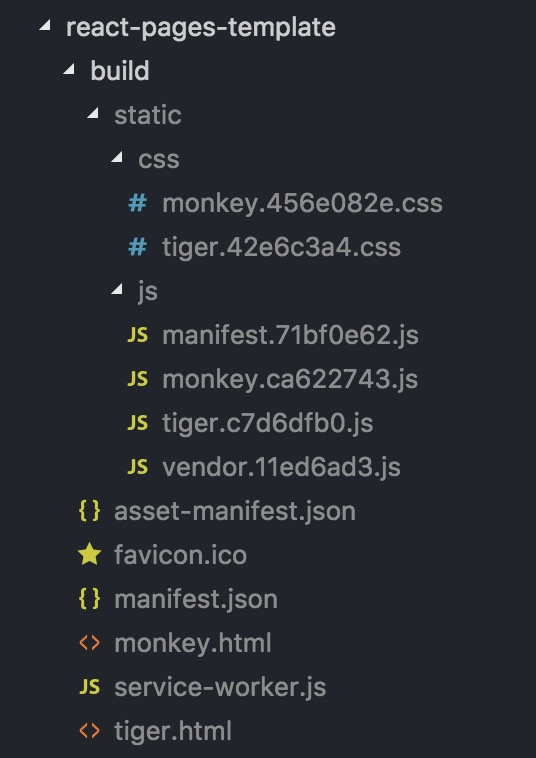
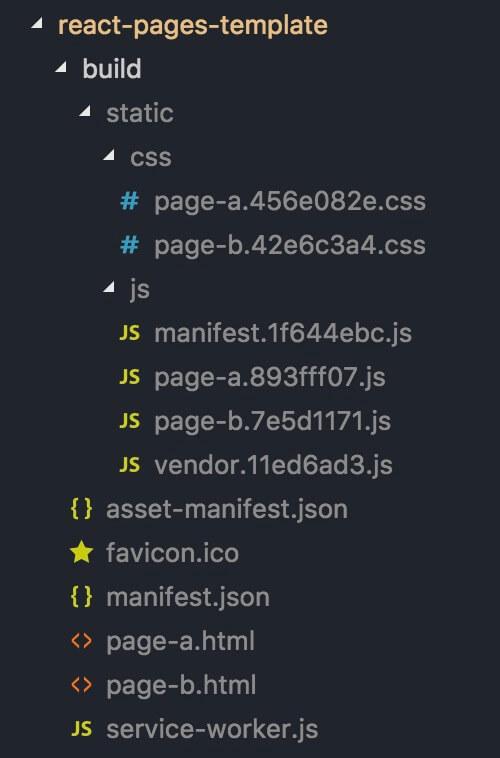
modify

diff --git a/config/utils.js b/config/utils.js
@@ -6,7 +6,7 @@
  * @Author: Eleven 
  * @Date: 2018-11-30 16:48:10 
  * @Last Modified by: Eleven
- * @Last Modified time: 2018-11-30 18:03:40
+ * @Last Modified time: 2018-12-02 19:59:28
  */
 
 const path = require('path')
@@ -45,7 +45,7 @@ const entries = getFilesName('src/views/**/*.js')
  *  1.允许文件夹层级嵌套;
  *  2.html的名称不允许重名;
  */
-const templates = getFilesName('public/template/**/*.html')
+const templates = getFilesName('src/views/**/*.html')
 
 /**
  * 获取webpack.config.dev.js的entry入口列表:
@@ -61,7 +61,7 @@ const getEntriesDev = () => {
       entry[fileName] = [
         require.resolve('./polyfills'),
         require.resolve('react-dev-utils/webpackHotDevClient'),
-        `${paths.appViews}/${fileName}.js`,
+        `${paths.appViews}/${fileName}/${fileName}.js`,
       ]
   })
   return entry
@@ -80,7 +80,7 @@ const getEntriesProd = () => {
   entries.forEach(fileName => {
       entry[fileName] = [
         require.resolve('./polyfills'),
-        `${paths.appViews}/${fileName}.js`,
+        `${paths.appViews}/${fileName}/${fileName}.js`,
       ]
   })
   return entry
@@ -97,7 +97,7 @@ const getHtmlWebpackPluginsDev = () => {
   templates.forEach((fileName) => {
     setting = {
       filename: `${fileName}.html`,
-      template: `${paths.appPublicTemplate}/${fileName}.html`,
+      template: `${paths.appViews}/${fileName}/${fileName}.html`,
       inject: false // js插入的位置，true/'head'/'body'/false
     }
 
@@ -126,7 +126,7 @@ const getHtmlWebpackPluginsProd = () => {
   templates.forEach((fileName) => {
     setting = {
       filename: `${fileName}.html`,
-      template: `${paths.appPublicTemplate}/${fileName}.html`,
+      template: `${paths.appViews}/${fileName}/${fileName}.html`,
       minify: {
         removeComments: true,
         collapseWhitespace: true,
@@ -144,6 +144,12 @@ const getHtmlWebpackPluginsProd = () => {
 
     // (仅)有入口的模版自动引入资源
     if (fileName in getEntriesProd()) {
+      /**
+       * 自动inject的chunks:
+       *  1.manifest: 是记录模块间依赖关系,当js(非vendor相关模块)有修改再次build时,vendorjs不会变动,但manifest.js和你对应页面的js(如:page-a.js)一样,一定会有变动;
+       *  2.vendor: 是我在入口处,手动定义了哪些模块需要被抽出作为基础缓存包,为了不造成阅读障碍,vendor留在webpack.config.prod.js中,而不是放在这里的getEntries...中,可以直观看到抽取了哪些依赖模块.
+       *   (与vue-cli略有差异,vue-cli是抽取所有的node_modules中的依赖模块作为基础缓存vendor)
+       */
       setting.chunks = ['manifest', 'vendor', fileName]
       setting.inject = true
       // setting.favicon = './src/assets/img/favicon.ico'

diff --git a/src/views/page-b/page-b.js b/src/views/page-b/page-b.js
@@ -1,9 +1,9 @@
 /* 
- * @Desc: monkey页入口
+ * @Desc: page-b页入口
  * @Author: Eleven 
- * @Date: 2018-11-30 18:43:43 
+ * @Date: 2018-11-30 18:44:02 
  * @Last Modified by: Eleven
- * @Last Modified time: 2018-11-30 20:29:25
+ * @Last Modified time: 2018-12-02 19:44:07
  */
 
 import 'babel-polyfill'
@@ -13,29 +13,13 @@ import ReactDOM from 'react-dom';
 import { HashRouter } from 'react-router-dom'
 import { Provider } from 'mobx-react'
 import { hot } from 'react-hot-loader'
-import registerServiceWorker from '../registerServiceWorker'
+import registerServiceWorker from '../../registerServiceWorker'
 
-import store from 'store/monkey'
-import Router from 'router/monkey'
-
-import { isProd } from 'utils'
-import fastclick from 'fastclick'
-import vConsole from 'vconsole'
+import store from 'store/page-b'
+import Router from 'router/page-b'
 
 // 页面全局通用样式
-import 'assets/style/modules/monkey'
-
-// fastclick注册
-if ('addEventListener' in document) {
-  document.addEventListener('DOMContentLoaded', function() {
-    fastclick.attach(document.body)
-  }, false)
-}
-
-// 非生产环境启用vconsole
-if( !isProd ){
-  new vConsole()
-}
+import 'assets/style/modules/page-b'
 
 class App extends Component {
   render() {

diff --git a/src/views/page-a/page-a.js b/src/views/page-a/page-a.js
@@ -1,9 +1,9 @@
 /* 
- * @Desc: tiger页入口
+ * @Desc: page-a页入口
  * @Author: Eleven 
- * @Date: 2018-11-30 18:44:02 
+ * @Date: 2018-11-30 18:43:43 
  * @Last Modified by: Eleven
- * @Last Modified time: 2018-11-30 20:29:18
+ * @Last Modified time: 2018-12-02 19:44:13
  */
 
 import 'babel-polyfill'
@@ -13,13 +13,29 @@ import ReactDOM from 'react-dom';
 import { HashRouter } from 'react-router-dom'
 import { Provider } from 'mobx-react'
 import { hot } from 'react-hot-loader'
-import registerServiceWorker from '../registerServiceWorker'
+import registerServiceWorker from '../../registerServiceWorker'
 
-import store from 'store/tiger'
-import Router from 'router/tiger'
+import store from 'store/page-a'
+import Router from 'router/page-a'
+
+import { isProd } from 'utils'
+import fastclick from 'fastclick'
+import vConsole from 'vconsole'
 
 // 页面全局通用样式
-import 'assets/style/modules/tiger'
+import 'assets/style/modules/page-a'
+
+// fastclick注册
+if ('addEventListener' in document) {
+  document.addEventListener('DOMContentLoaded', function() {
+    fastclick.attach(document.body)
+  }, false)
+}
+
+// 非生产环境启用vconsole
+if( !isProd ){
+  new vConsole()
+}
 
 class App extends Component {
   render() {

diff --git a/config/webpackDevServer.config.js b/config/webpackDevServer.config.js
@@ -11,8 +11,8 @@ const host = process.env.HOST || '0.0.0.0';
 
 module.exports = function(proxy, allowedHost) {
   return {
-    // openPage: 'template/list.html',  // 指定默认启动浏览器时打开的页面
-    // index: 'template/list.html',  // 指定首页位置
+    // openPage: `page-a.html`,  // 指定默认启动浏览器时打开的页面
+    // index: `page-a.html`,  // 指定首页位置
     // WebpackDevServer 2.4.3 introduced a security fix that prevents remote
     // websites from potentially accessing local content through DNS rebinding:
     // https://github.com/webpack/webpack-dev-server/issues/887
@@ -50,7 +50,8 @@ module.exports = function(proxy, allowedHost) {
     // for files like `favicon.ico`, `manifest.json`, and libraries that are
     // for some reason broken when imported through Webpack. If you just want to
     // use an image, put it in `src` and `import` it from JavaScript instead.
-    contentBase: paths.appPublic,
+    // contentBase: paths.appPublic,
+    contentBase: paths.appBuild,
     // By default files from `contentBase` will not trigger a page reload.
     watchContentBase: true,
     // Enable hot reloading server. It will provide /sockjs-node/ endpoint

diff --git a/scripts/build.js b/scripts/build.js
@@ -56,8 +56,8 @@ const WARN_AFTER_CHUNK_GZIP_SIZE = 1024 * 1024;
 // 重写的入口js和html模版检查
 for(let key in utils.entries) {
   const fileName = utils.entries[key]
-  const htmlPath = `${paths.appPublicTemplate}/${fileName}.html`
-  const entryPath = `${paths.appViews}/${fileName}.js`
+  const htmlPath = `${paths.appViews}/${fileName}/${fileName}.html`
+  const entryPath = `${paths.appViews}/${fileName}/${fileName}.js`
   
   if(!checkRequiredFiles([htmlPath, entryPath])) {
     process.exit(1);
@@ -170,8 +170,7 @@ function build(previousFileSizes) {
 function copyPublicFolder() {
   fs.copySync(paths.appPublic, paths.appBuild, {
     dereference: true,
+    // public目录下,哪些应该略过copy.
     // filter: file => file !== paths.appHtml,
-    // public/template目录下,放html模版,略过copy.
-    filter: file => file.indexOf(paths.appPublicTemplate) === -1,
   });
 }

diff --git a/scripts/te-build.js b/scripts/te-build.js
@@ -54,8 +54,8 @@ const WARN_AFTER_CHUNK_GZIP_SIZE = 1024 * 1024;
 // 重写的入口js和html模版检查
 for(let key in utils.entries) {
   const fileName = utils.entries[key]
-  const htmlPath = `${paths.appPublicTemplate}/${fileName}.html`
-  const entryPath = `${paths.appViews}/${fileName}.js`
+  const htmlPath = `${paths.appViews}/${fileName}/${fileName}.html`
+  const entryPath = `${paths.appViews}/${fileName}/${fileName}.js`
   
   if(!checkRequiredFiles([htmlPath, entryPath])) {
     process.exit(1);
@@ -168,8 +168,7 @@ function build(previousFileSizes) {
 function copyPublicFolder() {
   fs.copySync(paths.appPublic, paths.appBuild, {
     dereference: true,
+    // public目录下,哪些应该略过copy.
     // filter: file => file !== paths.appHtml,
-    // public/template目录下,放html模版,略过copy.
-    filter: file => file.indexOf(paths.appPublicTemplate) === -1,
   });
 }

diff --git a/src/router/page-a/index.jsx b/src/router/page-a/index.jsx
@@ -3,7 +3,7 @@
  * @Author: Eleven 
  * @Date: 2018-11-30 18:18:21 
  * @Last Modified by: Eleven
- * @Last Modified time: 2018-11-30 18:18:42
+ * @Last Modified time: 2018-12-02 19:26:05
  */
 
 import React, { Component } from 'react'
@@ -16,7 +16,7 @@ export default class Router extends Component {
     return (
       <Switch>
         <Route path='/' exact component={HelloMonkey} />
-        <Route path='/monkey' component={HelloMonkey} />
+        <Route path='/page-a' component={HelloMonkey} />
         
       </Switch>
     )

diff --git a/src/router/page-b/index.jsx b/src/router/page-b/index.jsx
@@ -3,7 +3,7 @@
  * @Author: Eleven 
  * @Date: 2018-11-30 18:18:45 
  * @Last Modified by: Eleven
- * @Last Modified time: 2018-11-30 18:19:57
+ * @Last Modified time: 2018-12-02 19:28:54
  */
 
 import React, { Component } from 'react'
@@ -16,7 +16,7 @@ export default class Router extends Component {
     return (
       <Switch>
         <Route path='/' exact component={HelloTiger} />
-        <Route path='/tiger' component={HelloTiger} />
+        <Route path='/page-b' component={HelloTiger} />
         
       </Switch>
     )

diff --git a/scripts/start.js b/scripts/start.js
@@ -57,8 +57,8 @@ const utils = require('../config/utils');
 // 重写的入口js和html模版检查
 for(let key in utils.entries) {
   const fileName = utils.entries[key]
-  const htmlPath = `${paths.appPublicTemplate}/${fileName}.html`
-  const entryPath = `${paths.appViews}/${fileName}.js`
+  const htmlPath = `${paths.appViews}/${fileName}/${fileName}.html`
+  const entryPath = `${paths.appViews}/${fileName}/${fileName}.js`
   
   if(!checkRequiredFiles([htmlPath, entryPath])) {
     process.exit(1);

diff --git a/config/paths.js b/config/paths.js
@@ -44,7 +44,6 @@ module.exports = {
   appBuild: resolveApp('build'),
   appViews: resolveApp('src/views'),
   appPublic: resolveApp('public'),
-  appPublicTemplate: resolveApp('public/template'),
   // appHtml: resolveApp('public/template/index.html'),
   // appIndexJs: resolveApp('src/views/index.js'),
   appPackageJson: resolveApp('package.json'),

diff --git a/src/views/page-a/page-a.html b/src/views/page-a/page-a.html
@@ -21,7 +21,7 @@
     <meta name="keywords" content="">
     <meta name="description" content="">
     
-    <title>monkey</title>
+    <title>page-a</title>
 
     <link rel="manifest" href="%PUBLIC_URL%/manifest.json">
     <link rel="shortcut icon" href="%PUBLIC_URL%/favicon.ico">

diff --git a/src/views/page-b/page-b.html b/src/views/page-b/page-b.html
@@ -21,7 +21,7 @@
     <meta name="keywords" content="">
     <meta name="description" content="">
     
-    <title>tiger</title>
+    <title>page-b</title>
 
     <link rel="manifest" href="%PUBLIC_URL%/manifest.json">
     <link rel="shortcut icon" href="%PUBLIC_URL%/favicon.ico">
